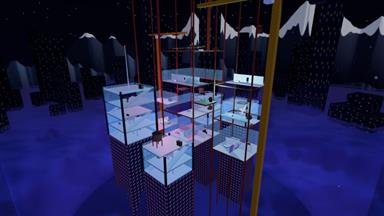
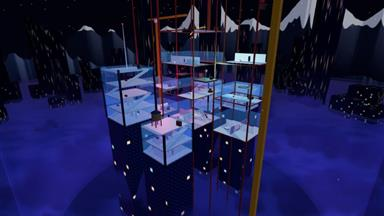
Glass Skyline: distant buildings lit at random (each its own pattern), tower shafts as glistening dark glass with a light here and there, fighting-floor glass panes back to their earlier look

diff --git a/src/city.js b/src/city.js
@@ -3,9 +3,9 @@
 // breakable chunks as the Paper Dojo: every window pane shatters, office partitions and crates break, and the
 // steel frames (unbreakable) are there to swing from, run along and stand on.
 import * as THREE from 'three';
-import { cloudHeaps } from './scenery.js?v=20261116182126';
+import { cloudHeaps } from './scenery.js?v=20261116182538';
 import { deck, prop } from './maps2.js';
-import { kindMats, chunk, group, wall, stack, finishBrk, kill } from './dojo.js?v=20261116182126';
+import { kindMats, chunk, group, wall, stack, finishBrk, kill } from './dojo.js?v=20261116182538';
 
 const TAU = Math.PI * 2;
 const std = (color, o = {}) => new THREE.MeshStandardMaterial({ color, roughness: 0.8, ...o });
@@ -21,9 +21,11 @@ export function buildCity(A, T) {
   const concrete = M.concrete = std(0xffffff, { map: T.canvasTex((g, s) => { g.fillStyle = '#a3a19c'; g.fillRect(0, 0, s, s); T.speckle(g, s, T.rng(3), 3500, 0.22); g.fillStyle = 'rgba(0,0,0,0.12)'; g.fillRect(0, 0, s, 2); g.fillRect(0, 0, 2, s); }), roughness: 0.95 });
   const facade = M.facade = std(0xffffff, { map: T.canvasTex((g, s) => {
     const gr = g.createLinearGradient(0, 0, s, s); gr.addColorStop(0, '#16263c'); gr.addColorStop(0.5, '#243c5c'); gr.addColorStop(1, '#101c2e'); g.fillStyle = gr; g.fillRect(0, 0, s, s);
-    { const q = T.rng(21); for (let y = 0; y < 5; y++) for (let x = 0; x < 4; x++) { const lit = q(); g.fillStyle = lit < 0.08 ? '#ffd890' : lit < 0.11 ? '#8ae0ff' : lit < 0.13 ? '#ff8ad8' : '#0c1420'; g.fillRect(14 + x * s / 4, 16 + y * s / 5, s / 4 - 14, s / 5 - 18); } }
+    { const gl = g.createLinearGradient(0, 0, s, s); gl.addColorStop(0.3, 'rgba(255,255,255,0)'); gl.addColorStop(0.45, 'rgba(200,225,255,0.22)'); gl.addColorStop(0.55, 'rgba(255,255,255,0)'); g.fillStyle = gl; g.fillRect(0, 0, s, s); } // (a glint across each pane)
     g.fillStyle = '#1b232c'; g.fillRect(0, 0, s, 8); g.fillRect(0, 0, 6, s);
-  }), roughness: 0.15, metalness: 0.4, emissive: 0xffffff, emissiveIntensity: 0.4 }); facade.emissiveMap = facade.map; // (the lit windows glow)
+  }), roughness: 0.08, metalness: 0.6, emissive: 0xffffff, emissiveIntensity: 0.9 });
+  // a light on here or there: one pane in forty, scattered at random over a 32 m stretch of wall (so no pattern shows)
+  facade.emissiveMap = T.canvasTex((g, s) => { const q = T.rng(21), n = 16, c = s / n; g.fillStyle = '#000'; g.fillRect(0, 0, s, s); for (let y = 0; y < n; y++) for (let x = 0; x < n; x++) if (q() < 0.025) { g.fillStyle = q() < 0.7 ? '#ffd890' : q() < 0.5 ? '#8ae0ff' : '#ff8ad8'; g.fillRect(x * c + c * 0.12, y * c + c * 0.12, c * 0.76, c * 0.76); } }, 256); facade.emissiveMap.repeat.set(1 / 16, 1 / 16);
   const dark = std(0x2a3138, { roughness: 0.5, metalness: 0.5 }), white = std(0xffffff, { roughness: 0.6, map: (() => { const t = T.canvasTex((g, s) => { const q = T.rng(12); g.fillStyle = '#dfe2e6'; g.fillRect(0, 0, s, s); for (let i = 0; i < 40; i++) { g.fillStyle = `rgba(90,100,110,${0.03 + q() * 0.06})`; g.fillRect(q() * s, 0, 4 + q() * 30, s); } for (let i = 0; i < 14; i++) { const x = q() * s, d = g.createLinearGradient(0, 0, 0, s * (0.3 + q() * 0.5)); d.addColorStop(0, 'rgba(70,70,60,0.22)'); d.addColorStop(1, 'rgba(70,70,60,0)'); g.fillStyle = d; g.fillRect(x, 0, 3 + q() * 8, s); } g.fillStyle = 'rgba(40,50,60,0.55)'; g.fillRect(0, 0, s, 3); g.fillRect(0, 0, 3, s); g.fillStyle = 'rgba(255,255,255,0.5)'; g.fillRect(0, 3, s, 2); g.fillRect(3, 0, 2, s); for (const [x, y] of [[14, 14], [s - 14, 14], [14, s - 14], [s - 14, s - 14]]) { g.fillStyle = '#7a828c'; g.beginPath(); g.arc(x, y, 4, 0, 7); g.fill(); } T.speckle(g, s, q, 2500, 0.12); }, 256); t.repeat.set(2, 2); return t; })() }), red = std(0xc23b2b), yellow = std(0xe8b422);
   const pillar = (x, z, y0, y1, w) => { const m = A.addBox(x - w / 2, x + w / 2, y0, y1, z - w / 2, z + w / 2, dark); A.pillars.push({ x, z, w }); return m; };
   const hookBox = (p, x0, x1, y0, y1, z0, z1) => { const b = { x0, x1, y0, y1, z0, z1 }; A.rayBoxes.push(b); p.rays.push(b); };
@@ -168,12 +170,16 @@ export function buildCity(A, T) {
 
   // ---------- backdrop: a far skyline in the haze, puffs of cloud below, a sea of cloud ----------
   {
-    const N = 170, im = new THREE.InstancedMesh(new THREE.BoxGeometry(1, 1, 1), new THREE.MeshBasicMaterial({ color: 0xffffff, fog: false, map: (() => { const t = T.canvasTex((g, s) => { const q = T.rng(22); g.fillStyle = '#10142a'; g.fillRect(0, 0, s, s); for (let y = 0; y < 16; y++) for (let x = 0; x < 6; x++) if (q() < 0.07) { g.fillStyle = q() < 0.7 ? '#ffd890' : q() < 0.5 ? '#8ae0ff' : '#ff8ad8'; g.fillRect(4 + x * s / 6, 3 + y * s / 16, s / 6 - 8, s / 16 - 6); } }, 128); t.repeat.set(2, 5); return t; })() }), N), mm = new THREE.Matrix4(), col = new THREE.Color();
+    const N = 170, im = new THREE.InstancedMesh(new THREE.BoxGeometry(1, 1, 1), new THREE.MeshBasicMaterial({ color: 0xffffff, fog: false, map: (() => { const t = T.canvasTex((g, s) => { const q = T.rng(22); g.fillStyle = '#10142a'; g.fillRect(0, 0, s, s); for (let y = 0; y < 48; y++) for (let x = 0; x < 14; x++) if (q() < 0.035) { g.fillStyle = q() < 0.7 ? '#ffd890' : q() < 0.5 ? '#8ae0ff' : '#ff8ad8'; g.fillRect(2 + x * s / 14, 1 + y * s / 48, s / 14 - 5, s / 48 - 2); } }, 256); return t; })() }), N), mm = new THREE.Matrix4(), col = new THREE.Color();
     for (let i = 0; i < N; i++) {
       const a = r() * TAU, dd = 290 + r() * 150, h = 60 + r() * r() * 300, wd = 12 + r() * 22;
       mm.compose(new THREE.Vector3(Math.cos(a) * dd, -110 + h / 2, Math.sin(a) * dd), new THREE.Quaternion().setFromAxisAngle(new THREE.Vector3(0, 1, 0), r() * 3), new THREE.Vector3(wd, h, wd * (0.7 + r() * 0.6)));
       im.setMatrixAt(i, mm); im.setColorAt(i, col.setHSL(0.62, 0.3, 0.6 - (dd - 290) / 400 + r() * 0.05));
     }
+    im.material.onBeforeCompile = (sh) => { sh.vertexShader = sh.vertexShader.replace('#include <uv_vertex>', `#include <uv_vertex>
+#ifdef USE_INSTANCING
+ vMapUv += fract(vec2(instanceMatrix[3].x, instanceMatrix[3].z) * 0.0137);
+#endif`); }; // (each building starts somewhere different in the pattern: no two alike)
     S.add(im);
   }
   cloudHeaps(S, r, { n: 46, rMin: 30, rMax: 210, y: -30, depth: 24, sMin: 8, sMax: 22, tint: new THREE.Color(0x4c4aa0) }); // clouds below: soft heaps of puffs (scenery.js)

diff --git a/src/main.js b/src/main.js
@@ -1,18 +1,18 @@
 import * as THREE from 'three';
-import { Arena, MAPS } from './arena.js?v=20261116182126';
-import { Fighter, PALETTE, GUARD, setMetalEnv, metalEnvFor } from './fighter.js?v=20261116182126';
-import { bakeMeshes, Pieces, Particles, splitSoup } from './slice.js?v=20261116182126';
-import { sfx, ensureAudio, setListener, setVolume, setMuted } from './audio.js?v=20261116182126';
-import * as net from './net.js?v=20261116182126';
-import { MODES, POINT_MODES, MODE_GOAL, ModeFx, makeCrown } from './modes.js?v=20261116182126';
-import { profile, addCoins, randomLook, cleanLook, item, cleanUp, upMul } from './cosmetics.js?v=20261116182126';
-import { makeKillFx } from './killfx.js?v=20261116182126';
-import { makeGrapple } from './grapple.js?v=20261116182126';
-import { initShop } from './shop.js?v=20261116182126';
-import { breakChunk, chunkSoup } from './dojo.js?v=20261116182126';
-import { portal } from './portal.js?v=20261116182126';
-import { Piranhas, GiantSaws, GiantBirds } from './piranha.js?v=20261116182126';
-import { makePost } from './post.js?v=20261116182126';
+import { Arena, MAPS } from './arena.js?v=20261116182538';
+import { Fighter, PALETTE, GUARD, setMetalEnv, metalEnvFor } from './fighter.js?v=20261116182538';
+import { bakeMeshes, Pieces, Particles, splitSoup } from './slice.js?v=20261116182538';
+import { sfx, ensureAudio, setListener, setVolume, setMuted } from './audio.js?v=20261116182538';
+import * as net from './net.js?v=20261116182538';
+import { MODES, POINT_MODES, MODE_GOAL, ModeFx, makeCrown } from './modes.js?v=20261116182538';
+import { profile, addCoins, randomLook, cleanLook, item, cleanUp, upMul } from './cosmetics.js?v=20261116182538';
+import { makeKillFx } from './killfx.js?v=20261116182538';
+import { makeGrapple } from './grapple.js?v=20261116182538';
+import { initShop } from './shop.js?v=20261116182538';
+import { breakChunk, chunkSoup } from './dojo.js?v=20261116182538';
+import { portal } from './portal.js?v=20261116182538';
+import { Piranhas, GiantSaws, GiantBirds } from './piranha.js?v=20261116182538';
+import { makePost } from './post.js?v=20261116182538';
 
 // ---------- settings ----------
 const store = {

diff --git a/src/dojo.js b/src/dojo.js
@@ -6,7 +6,7 @@
 // Vertical: a four-tier dojo tower with stairs spiralling up it, two-storey houses, rooftop bridges, watchtowers
 // and floating shrine islands around the town.
 import * as THREE from 'three';
-import { regMat } from './fighter.js?v=20261116182126';
+import { regMat } from './fighter.js?v=20261116182538';
 import { deck, prop, bridge, stalk, drift, farRing } from './maps2.js';
 
 const TAU = Math.PI * 2, CELL = 6;
@@ -47,7 +47,7 @@ function kindMats(T) {
     straw: { mat: std(0xffffff, { map: straw, roughness: 1 }), piece: plain(0xc9a651, 1), cap: plain(0xe2c574, 1), tint: [0.85, 1.05] },
     cloth: { mat: std(0xffffff, { roughness: 0.9 }), piece: plain(0xa02c2c), cap: plain(0xc04848), tint: [0.8, 1], color: 0xb33030 },
     // (Glass Skyline) window glass shatters; steel frames are only for swinging from and standing on; drywall gives way like paper
-    glass: { mat: std(0xffffff, { transparent: true, opacity: 0.46, roughness: 0.06, metalness: 0.25, emissive: 0x2a86e0, emissiveIntensity: 0.9, depthWrite: false }), piece: regMat(std(0xbfe4ff, { transparent: true, opacity: 0.5, roughness: 0.05, metalness: 0.3 })), cap: regMat(std(0xdff2ff, { transparent: true, opacity: 0.6, roughness: 0.05 })), tint: [0.85, 1], color: 0x6fb2ea },
+    glass: { mat: std(0xffffff, { transparent: true, opacity: 0.46, roughness: 0.06, metalness: 0.25, emissive: 0x1d4a70, emissiveIntensity: 0.7, depthWrite: false }), piece: regMat(std(0xbfe4ff, { transparent: true, opacity: 0.5, roughness: 0.05, metalness: 0.3 })), cap: regMat(std(0xdff2ff, { transparent: true, opacity: 0.6, roughness: 0.05 })), tint: [0.85, 1], color: 0x6fb2ea },
     steel: { mat: std(0xffffff, { roughness: 0.55, metalness: 0.35 }), piece: plain(0xb5532d), cap: plain(0x999999), tint: [0.85, 1], color: 0xc0582e },
     bamboo: { mat: std(0xffffff, { map: poles, roughness: 0.6 }), piece: plain(0x7fa648, 0.6), cap: plain(0xe6e2b0, 0.7), tint: [0.85, 1.08] },
     drywall: { mat: std(0xffffff, { roughness: 0.95 }), piece: plain(0xe2ddd3), cap: plain(0xf2efe8), tint: [0.9, 1], color: 0xe8e3da },

diff --git a/src/arena.js b/src/arena.js
@@ -3,20 +3,20 @@
 // so collision and "what am I standing on" stay simple and identical in every browser.
 import * as THREE from 'three';
 import { buildPagoda, buildIsles, buildBowl } from './maps2.js';
-import { buildTilt } from './tilt.js?v=20261116182126';
-import { buildFoundry } from './foundry.js?v=20261116182126';
-import { buildBamboo } from './bamboo.js?v=20261116182126';
-import { buildCity } from './city.js?v=20261116182126';
-import { buildDojo } from './dojo.js?v=20261116182126';
-import { buildComet } from './comet.js?v=20261116182126';
-import { buildLava } from './lava.js?v=20261116182126';
-import { buildRun } from './run.js?v=20261116182126';
-import { buildGrove } from './grove.js?v=20261116182126';
-import { buildTransport } from './transport.js?v=20261116182126';
-import { applyLook } from './look.js?v=20261116182126';
-import { addScenery } from './scenery.js?v=20261116182126';
-import { addAtmosphere } from './atmos.js?v=20261116182126';
-import { makeMesa, mesaMesh } from './mesa.js?v=20261116182126';
+import { buildTilt } from './tilt.js?v=20261116182538';
+import { buildFoundry } from './foundry.js?v=20261116182538';
+import { buildBamboo } from './bamboo.js?v=20261116182538';
+import { buildCity } from './city.js?v=20261116182538';
+import { buildDojo } from './dojo.js?v=20261116182538';
+import { buildComet } from './comet.js?v=20261116182538';
+import { buildLava } from './lava.js?v=20261116182538';
+import { buildRun } from './run.js?v=20261116182538';
+import { buildGrove } from './grove.js?v=20261116182538';
+import { buildTransport } from './transport.js?v=20261116182538';
+import { applyLook } from './look.js?v=20261116182538';
+import { addScenery } from './scenery.js?v=20261116182538';
+import { addAtmosphere } from './atmos.js?v=20261116182538';
+import { makeMesa, mesaMesh } from './mesa.js?v=20261116182538';
 const NONE = [];
 const _bm = new THREE.Matrix4(), _bp = new THREE.Vector3(), _bq = new THREE.Quaternion(), _bs = new THREE.Vector3(), _UP = new THREE.Vector3(0, 1, 0); // bamboo instance updates
 

diff --git a/index.html b/index.html
@@ -4,7 +4,7 @@
 <meta charset="utf-8">
 <meta name="viewport" content="width=device-width,initial-scale=1">
 <title>Sever</title>
-<meta name="build" content="20261116182126">
+<meta name="build" content="20261116182538">
 <link rel="icon" href="data:,">
 <script>
 // Stale-page guard (as in Splatline): if version.json names a newer build than this page, reload once.
@@ -191,12 +191,12 @@ window.severVersion.check();
 <script type="importmap">
 { "imports": {
   "three": "./vendor/three.module.min.js",
-  "./src/main.js": "./src/main.js?v=20261116182126",
-  "./src/arena.js": "./src/arena.js?v=20261116182126",
-  "./src/fighter.js": "./src/fighter.js?v=20261116182126",
-  "./src/slice.js": "./src/slice.js?v=20261116182126",
-  "./src/audio.js": "./src/audio.js?v=20261116182126",
-  "./src/net.js": "./src/net.js?v=20261116182126"
+  "./src/main.js": "./src/main.js?v=20261116182538",
+  "./src/arena.js": "./src/arena.js?v=20261116182538",
+  "./src/fighter.js": "./src/fighter.js?v=20261116182538",
+  "./src/slice.js": "./src/slice.js?v=20261116182538",
+  "./src/audio.js": "./src/audio.js?v=20261116182538",
+  "./src/net.js": "./src/net.js?v=20261116182538"
 } }
 </script>
 </head>
@@ -352,6 +352,6 @@ window.severVersion.check();
 <div id="toast" style="opacity:0"></div>
 <div id="loading">Loading…</div>
 <noscript><p style="position:fixed;inset:0;display:flex;align-items:center;justify-content:center">Sever needs JavaScript and WebGL.</p></noscript>
-<script type="module" src="src/main.js?v=20261116182126"></script>
+<script type="module" src="src/main.js?v=20261116182538"></script>
 </body>
 </html>

diff --git a/src/shop.js b/src/shop.js
@@ -1,10 +1,10 @@
 // The shop screen: browse by category, try things on a turning, swinging preview fighter, buy and equip.
 import * as THREE from 'three';
-import { Fighter, PALETTE, setMetalEnv, metalEnvFor } from './fighter.js?v=20261116182126';
-import { Particles, Pieces, bakeMeshes } from './slice.js?v=20261116182126';
-import { makeKillFx } from './killfx.js?v=20261116182126';
-import { makeGrapple } from './grapple.js?v=20261116182126';
-import { CATEGORIES, CATALOG, item, profile, owns, buy, equip, UPGRADES, UP_MAX, UP_PRICES, buyUpgrade, upText, tierOf } from './cosmetics.js?v=20261116182126';
+import { Fighter, PALETTE, setMetalEnv, metalEnvFor } from './fighter.js?v=20261116182538';
+import { Particles, Pieces, bakeMeshes } from './slice.js?v=20261116182538';
+import { makeKillFx } from './killfx.js?v=20261116182538';
+import { makeGrapple } from './grapple.js?v=20261116182538';
+import { CATEGORIES, CATALOG, item, profile, owns, buy, equip, UPGRADES, UP_MAX, UP_PRICES, buyUpgrade, upText, tierOf } from './cosmetics.js?v=20261116182538';
 
 const $ = (id) => document.getElementById(id);
 const hex = (c) => '#' + c.toString(16).padStart(6, '0');

diff --git a/src/maps2.js b/src/maps2.js
@@ -3,8 +3,8 @@
 //   Pagoda Falls: a three-tier pagoda at sunset, stone islands, rock spires and terraces, red lacquer posts.
 //   Moonlit Isles: floating grass islands at night, a great cherry tree, rope bridges, bamboo groves.
 import * as THREE from 'three';
-import { buildMaw, mawY, buildTendrils } from './maw.js?v=20261116182126';
-import { glow, aurora } from './look.js?v=20261116182126';
+import { buildMaw, mawY, buildTendrils } from './maw.js?v=20261116182538';
+import { glow, aurora } from './look.js?v=20261116182538';
 
 const TAU = Math.PI * 2;
 const std = (color, o = {}) => new THREE.MeshStandardMaterial({ color, roughness: 0.8, ...o });

diff --git a/src/tilt.js b/src/tilt.js
@@ -5,8 +5,8 @@
 // whoever is on it; a new one is hung back on 10 s later.
 import * as THREE from 'three';
 import { drift } from './maps2.js';
-import { glow, aurora } from './look.js?v=20261116182126';
-import { cloudHeaps } from './scenery.js?v=20261116182126';
+import { glow, aurora } from './look.js?v=20261116182538';
+import { cloudHeaps } from './scenery.js?v=20261116182538';
 
 const TAU = Math.PI * 2, N = 6, R = 14, DISH = 1.9, ARM = 25, L = 22, HUB = 40, MAXOFF = 2; // platforms, radius, dish depth, crown arm, chain, crown height, extra swing
 const std = (color, o = {}) => new THREE.MeshStandardMaterial({ color, roughness: 0.7, ...o });

diff --git a/src/fighter.js b/src/fighter.js
@@ -2,8 +2,8 @@
 // cleanly), posed each frame with a long-striding run cycle, two-bone IK for arms and legs, and a sword
 // driven by the swing input (s.x, s.y).
 import * as THREE from 'three';
-import { buildBody, poseBody } from './body.js?v=20261116182126';
-import { item, cleanLook } from './cosmetics.js?v=20261116182126';
+import { buildBody, poseBody } from './body.js?v=20261116182538';
+import { item, cleanLook } from './cosmetics.js?v=20261116182538';
 
 // Every material that can end up on a sliced piece is registered here, so a piece's single mesh can use
 // one shared material array and keep each triangle's look.

diff --git a/src/piranha.js b/src/piranha.js
@@ -1,7 +1,7 @@
 // Great Canopy: fall too low and a giant piranha bursts out of the swamp, jaws wide, snaps you up and dives back in.
 // Purely visual (every client plays it locally when it sees a fall death on that map).
 import * as THREE from 'three';
-import { bladeMesh } from './foundry.js?v=20261116182126';
+import { bladeMesh } from './foundry.js?v=20261116182538';
 
 const TAU = Math.PI * 2;
 const std = (color, o = {}) => new THREE.MeshStandardMaterial({ color, roughness: 0.55, metalness: 0.15, ...o });

diff --git a/src/killfx.js b/src/killfx.js
@@ -1,8 +1,8 @@
 // Kill effects from the shop: what happens to someone you cut down. The body still splits along your
 // cut; the effect changes what sprays out, what the pieces leak, and what becomes of them.
 import * as THREE from 'three';
-import { Particles } from './slice.js?v=20261116182126';
-import { sfx } from './audio.js?v=20261116182126';
+import { Particles } from './slice.js?v=20261116182538';
+import { sfx } from './audio.js?v=20261116182538';
 
 const R = () => Math.random() - 0.5;
 

diff --git a/src/bamboo.js b/src/bamboo.js
@@ -5,7 +5,7 @@
 // them (and come back a few seconds later for the next fighter).
 import * as THREE from 'three';
 import { deck, prop, stalk, drift, farRing } from './maps2.js';
-import { kindMats, chunk, join, group, wall, stack, finishBrk, kill } from './dojo.js?v=20261116182126';
+import { kindMats, chunk, join, group, wall, stack, finishBrk, kill } from './dojo.js?v=20261116182538';
 
 const TAU = Math.PI * 2, HALF = 30, TILE = 1.5;
 
